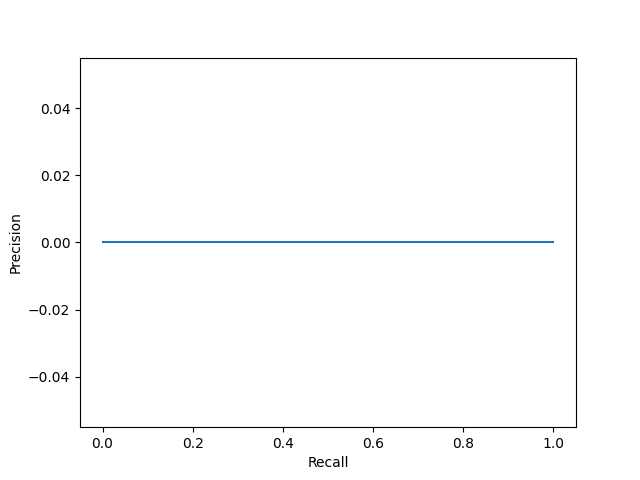
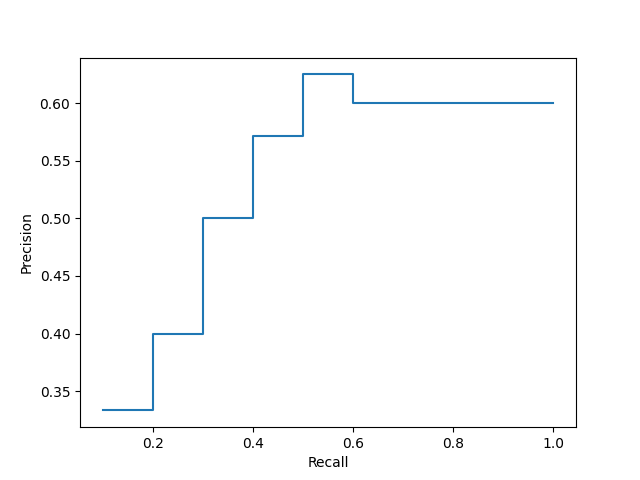
Fix: results of information need 2

diff --git a/scripts/results/results_2.tex b/scripts/results/results_2.tex
@@ -1,9 +1,9 @@
 \begin{tabular}{lll}
 \toprule
-{} &                       0 &      1 \\
+{} &                       0 &         1 \\
 \midrule
-0 &                  Metric &  Value \\
-1 &       Average Precision &    0.0 \\
-2 &  Precision at 10 (P@10) &    0.0 \\
+0 &                  Metric &     Value \\
+1 &       Average Precision &  0.569643 \\
+2 &  Precision at 10 (P@10) &       0.6 \\
 \bottomrule
 \end{tabular}
